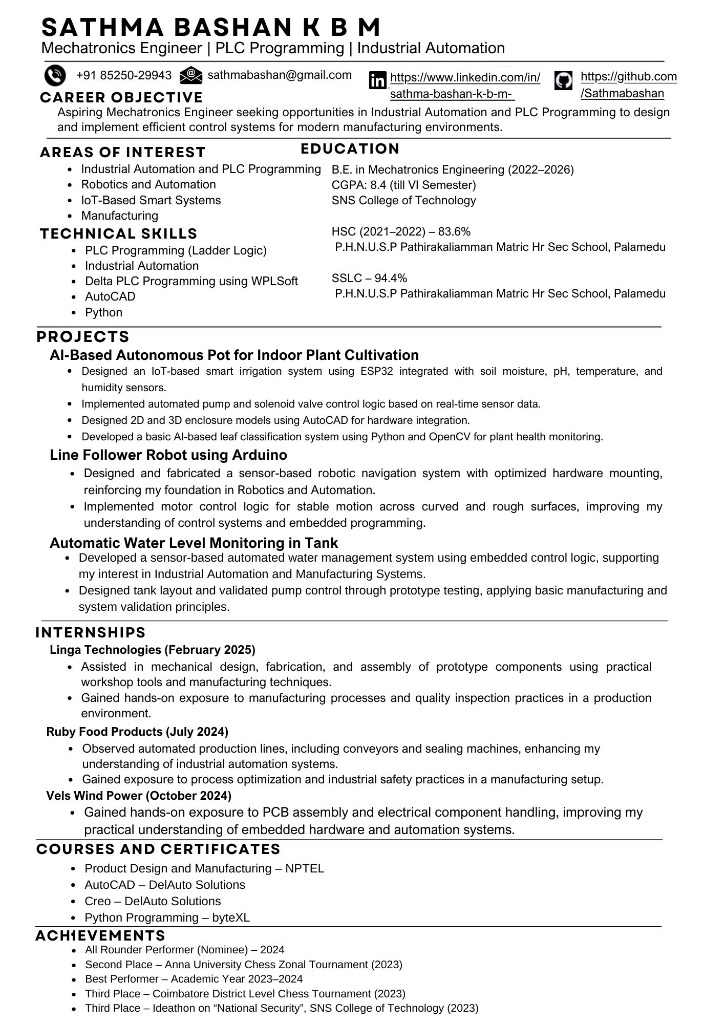
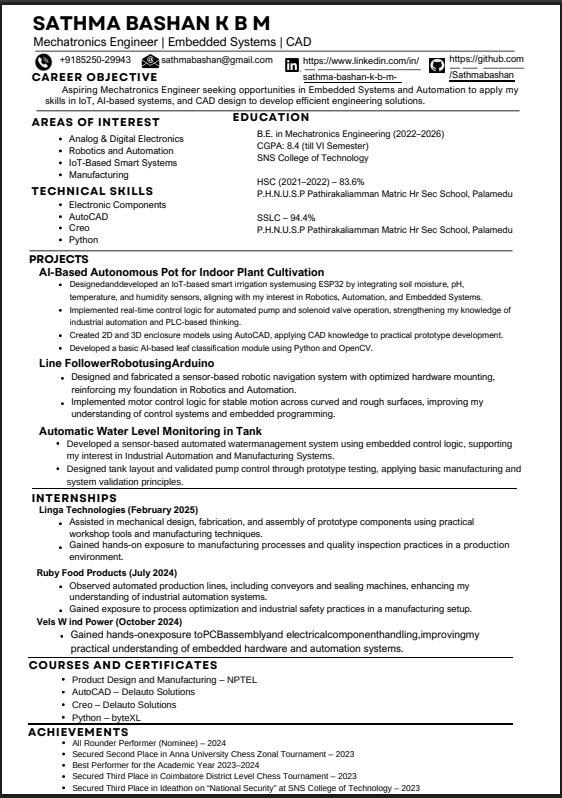
Add files via upload

Changed region(s): [[0.0, 0.0, 1.0, 1.0]]

diff --git a/index.html b/index.html
@@ -95,24 +95,24 @@
                                 style="width: 14px; height: 14px; margin-right: 6px; color: var(--clr-accent);"></i>Industrial
                             Automation</li>
                         <li style="display: flex; align-items: center;"><i data-feather="check-circle"
-                                style="width: 14px; height: 14px; margin-right: 6px; color: var(--clr-accent);"></i>PLC
-                            Programming</li>
-                        <li style="display: flex; align-items: center;"><i data-feather="check-circle"
                                 style="width: 14px; height: 14px; margin-right: 6px; color: var(--clr-accent);"></i>Embedded
                             Systems</li>
                         <li style="display: flex; align-items: center;"><i data-feather="check-circle"
                                 style="width: 14px; height: 14px; margin-right: 6px; color: var(--clr-accent);"></i>CAD
                             Design</li>
+                        <li style="display: flex; align-items: center;"><i data-feather="check-circle"
+                                style="width: 14px; height: 14px; margin-right: 6px; color: var(--clr-accent);"></i>PLC
+                            Programming</li>
                     </ul>
                 </div>
 
                 <div class="hero-actions">
                     <div style="display: flex; gap: 0.5rem; align-items: center;">
-                        <a href="assets/Sathma_Bashan_Resume_Update_v2.jpg" class="btn-primary"
+                        <a href="assets/Sathma_Bashan_Resume_Final.jpg" class="btn-primary"
                             download="Sathma_Bashan_Resume.jpg">
                             <i data-feather="download"></i> Resume Download
                         </a>
-                        <button data-cert-src="assets/Sathma_Bashan_Resume_Update_v2.jpg" class="btn-secondary cert-btn"
+                        <button data-cert-src="assets/Sathma_Bashan_Resume_Final.jpg" class="btn-secondary cert-btn"
                             style="padding: 0.8rem; display: flex; align-items: center;" aria-label="View Resume">
                             <i data-feather="eye"></i>
                         </button>
@@ -307,7 +307,7 @@
                         <div class="card-inner">
                             <div class="card-front">
                                 <div class="project-image-wrapper">
-                                    <img src="https://images.unsplash.com/photo-1530669229007-8e6ad71c77bd?q=80&w=800&auto=format&fit=crop"
+                                    <img src="assets/projects/smart-pot.png"
                                         loading="lazy" alt="AI-Based Autonomous Pot for Indoor Plant Cultivation"
                                         class="sepia-filter">
                                 </div>
@@ -843,7 +843,7 @@
                     <p style="color: var(--clr-text-muted); margin-bottom: 0.5rem;">Or connect directly:</p>
                     <div class="info-item" style="margin-bottom: 1rem;">
                         <i data-feather="mail"></i>
-                        <a href="mailto:sathmabashan.kbm.mct.2022@snsct.org">sathmabashan.kbm.mct.2022@snsct.org</a>
+                        <a href="mailto:sathmabashan@gmail.com">sathmabashan@gmail.com</a>
                     </div>
                     <div class="info-socials">
                         <a href="https://www.linkedin.com/in/sathma-bashan-k-b-m-/" target="_blank" class="social-link"

diff --git a/style.css b/style.css
@@ -662,7 +662,8 @@ nav {
 .project-image-wrapper img {
     width: 100%;
     height: 100%;
-    object-fit: cover;
+    object-fit: contain;
+    background-color: var(--clr-bg-main);
     transition: var(--transition);
 }
 
